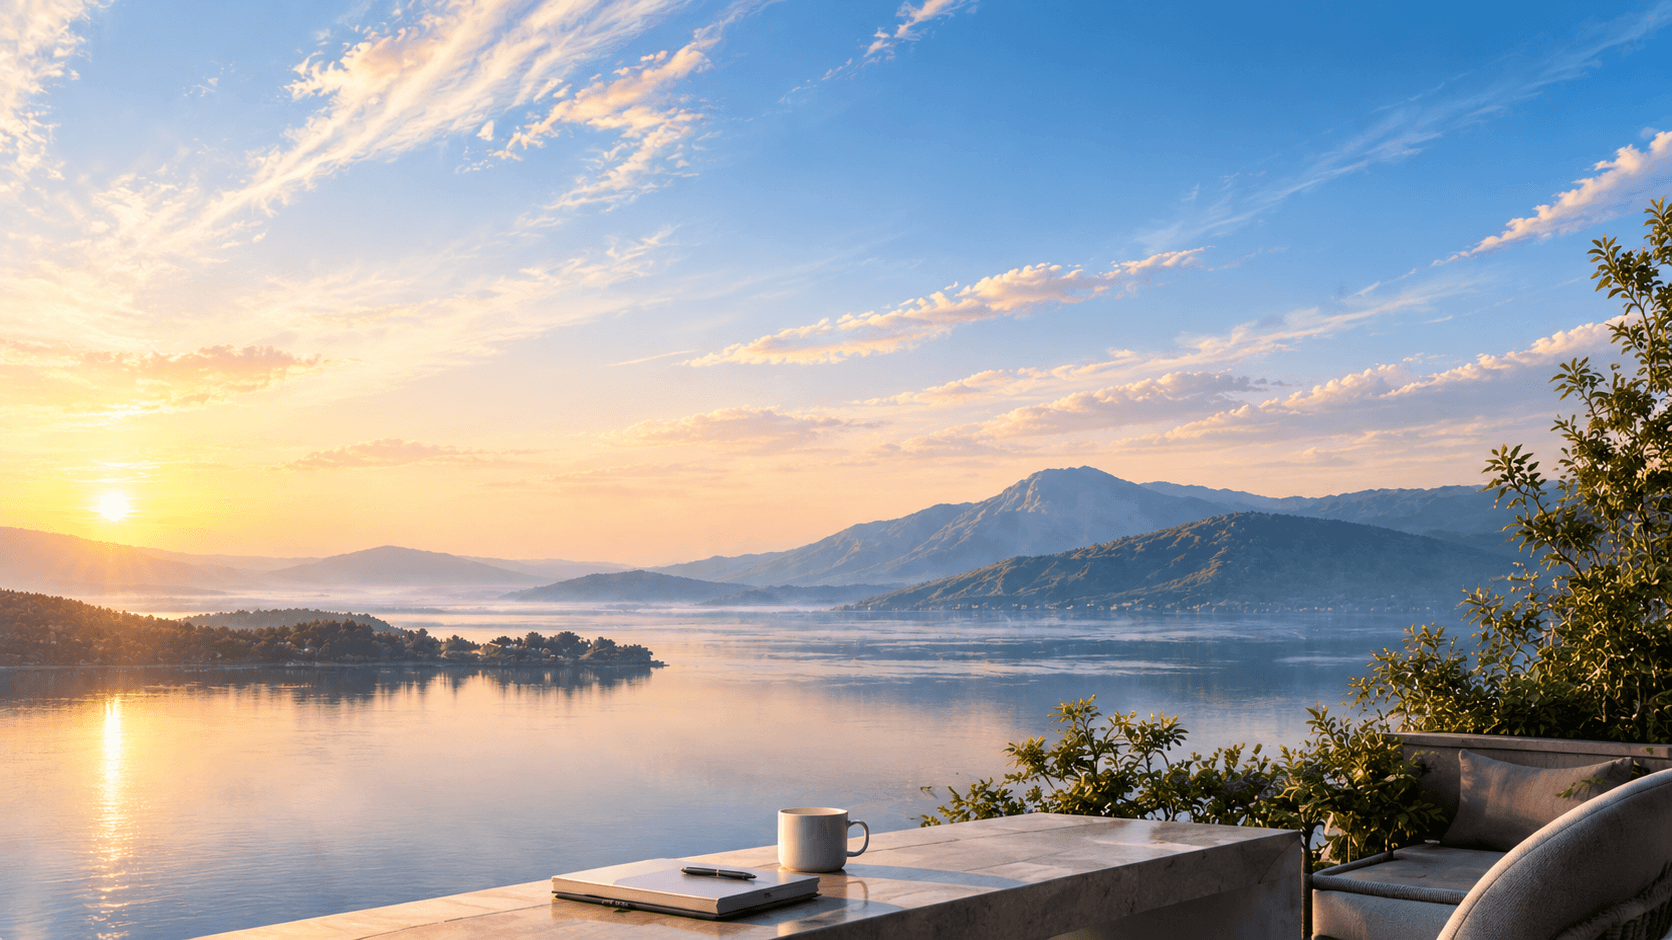
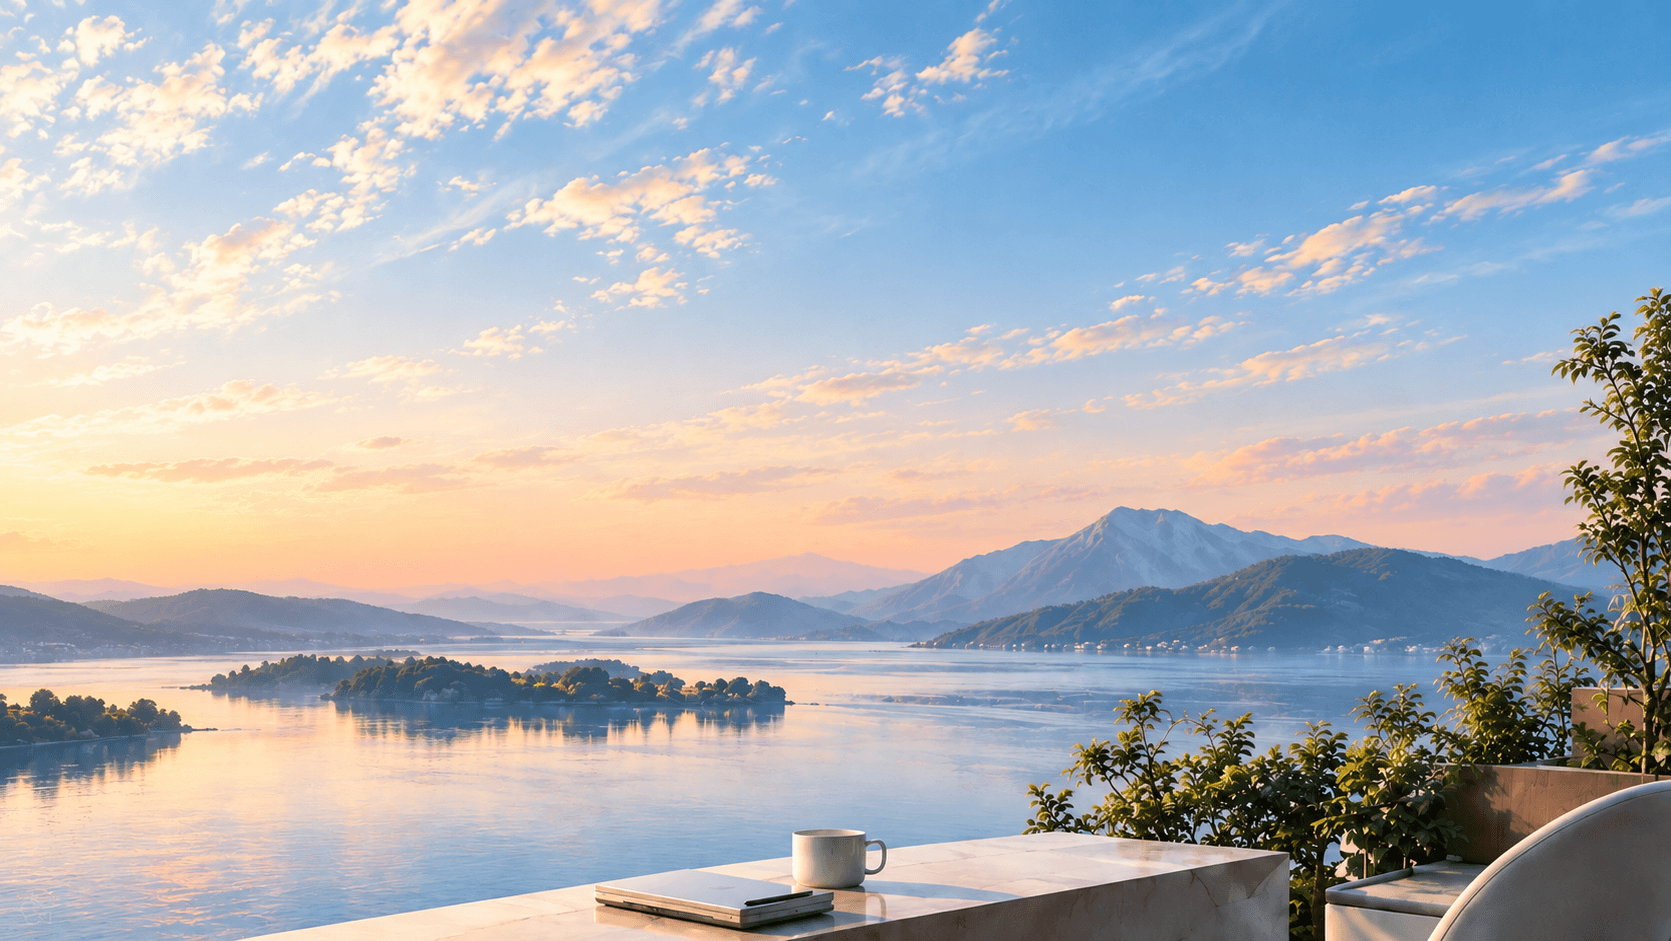
feat(账号区): 头像新增账号菜单入口，支持退出登录二次确认

diff --git a/web/src/components/AccountFooter/index.tsx b/web/src/components/AccountFooter/index.tsx
@@ -1,36 +1,200 @@
 /**
  * @component 底部账号区
- * @description 左栏底部的圆形头像、账号名与脱敏手机号；
- * 两态位置一致不跳动
+ * @description 左栏底部的圆形头像、账号名与脱敏手机号；头像可点击，向上弹出账号菜单
+ * （退出登录），退出与设置页一致走二次确认；两态位置一致不跳动
  * @author gouxinjie
  * @created 2026-09-18
  * @updated 2026-09-23
  */
+import { useEffect, useLayoutEffect, useRef, useState } from 'react';
+import type { KeyboardEvent } from 'react';
+import { createPortal } from 'react-dom';
+import { useNavigate } from 'react-router-dom';
+import ConfirmDialog from '@/components/ConfirmDialog';
 import { useAuth } from '@/contexts/AuthContext';
 import { maskPhone } from '@/utils/format';
+import { navigateWithTransition } from '@/utils/routeTransition';
 import styles from './index.module.scss';
 
 /** 账号名占位：当前用户模型没有昵称字段，统一展示固定称呼 */
 const ACCOUNT_NAME = 'weekly 用户';
+
+/** 菜单与头像之间的间距 */
+const MENU_GAP = 6;
+
+/** 菜单宽度，必须与 index.module.scss 的 .menu 宽度一致，否则贴边时的横向收拢会算错 */
+const MENU_WIDTH = 172;
+
+/** 菜单距视口边缘的最小留白 */
+const VIEWPORT_PADDING = 8;
+
+/** 账号菜单定位结果（fixed 坐标：用 bottom 而非 top，菜单高度变化时始终贴着头像下沿） */
+interface MenuPosition {
+  /** 菜单底边距视口底部的距离 */
+  bottom: number;
+  /** 菜单左边距视口左侧的距离 */
+  left: number;
+}
+
+/**
+ * 计算账号菜单的定位
+ * @param trigger - 头像按钮元素
+ * @returns 定位结果；元素不存在时返回 null
+ * @remarks 菜单向上弹出：账号区固定在页面底部，向下没有空间
+ */
+const computeMenuPosition = (trigger: HTMLElement | null): MenuPosition | null => {
+  if (trigger === null) return null;
+
+  const rect = trigger.getBoundingClientRect();
+  const rightmost = window.innerWidth - MENU_WIDTH - VIEWPORT_PADDING;
+  const left = Math.min(Math.max(rect.left, VIEWPORT_PADDING), Math.max(rightmost, VIEWPORT_PADDING));
+
+  return {
+    bottom: window.innerHeight - rect.top + MENU_GAP,
+    left,
+  };
+};
 
 /**
  * 底部账号区
  * @returns 账号区节点
  */
 const AccountFooter = () => {
-  const { user } = useAuth();
+  const { user, signOut } = useAuth();
+  const navigate = useNavigate();
+
+  const [menuOpen, setMenuOpen] = useState(false);
+  const [confirmOpen, setConfirmOpen] = useState(false);
+  const [pending, setPending] = useState(false);
+  const [position, setPosition] = useState<MenuPosition | null>(null);
+
+  const rootRef = useRef<HTMLDivElement | null>(null);
+  const triggerRef = useRef<HTMLButtonElement | null>(null);
+  const menuRef = useRef<HTMLDivElement | null>(null);
+
+  // 菜单定位：展开时算一次，页面滚动或窗口尺寸变化时跟随更新
+  useLayoutEffect(() => {
+    if (!menuOpen) {
+      setPosition(null);
+      return undefined;
+    }
+
+    const update = (): void => setPosition(computeMenuPosition(triggerRef.current));
+    update();
+
+    window.addEventListener('scroll', update, true);
+    window.addEventListener('resize', update);
+    return () => {
+      window.removeEventListener('scroll', update, true);
+      window.removeEventListener('resize', update);
+    };
+  }, [menuOpen]);
+
+  // 点击菜单与头像之外的区域时收起
+  useEffect(() => {
+    if (!menuOpen) return undefined;
+
+    /**
+     * 处理文档上的鼠标按下
+     * @param event - 鼠标事件
+     * @returns 无
+     */
+    const handlePointerDown = (event: MouseEvent): void => {
+      const target = event.target;
+      if (!(target instanceof Node)) return;
+      if (rootRef.current?.contains(target) === true) return;
+      if (menuRef.current?.contains(target) === true) return;
+      setMenuOpen(false);
+    };
+
+    document.addEventListener('mousedown', handlePointerDown);
+    return () => {
+      document.removeEventListener('mousedown', handlePointerDown);
+    };
+  }, [menuOpen]);
+
+  /*
+   * 菜单展开时把焦点移进第一个菜单项，关闭后交还头像按钮：
+   * 键盘用户展开菜单后按回车即可退出，焦点也不会因为菜单项被卸载而掉到 body 上。
+   */
+  useEffect(() => {
+    if (!menuOpen) return undefined;
+
+    // 头像按钮组件生命周期内不会更换，这里取出节点而不是在清理函数里再读 ref
+    const trigger = triggerRef.current;
+    menuRef.current?.querySelector<HTMLButtonElement>('[role="menuitem"]')?.focus();
+    return () => {
+      trigger?.focus();
+    };
+  }, [menuOpen]);
 
   if (user === null) return null;
 
+  /**
+   * 菜单内的键盘交互
+   * @param event - 键盘事件
+   * @returns 无
+   * @remarks Esc 与 Tab 都只是收起菜单：焦点由上面的清理函数交还头像按钮，
+   *          不把焦点留在已被卸载的菜单项上
+   */
+  const handleMenuKeyDown = (event: KeyboardEvent<HTMLDivElement>): void => {
+    if (event.key === 'Escape' || event.key === 'Tab') {
+      event.preventDefault();
+      setMenuOpen(false);
+    }
+  };
+
+  /**
+   * 打开二次确认弹窗
+   * @returns 无
+   */
+  const openSignOutConfirm = (): void => {
+    setMenuOpen(false);
+    setConfirmOpen(true);
+  };
+
+  /**
+   * 确认后退出当前设备并回到登录页
+   * @returns 无
+   * @remarks 登出接口失败时 AuthContext 已清除本地登录态，路由守卫会重定向到登录页，
+   *          因此不在此处重试，只把失败事实带过去提示，避免用户误以为已安全退出
+   */
+  const submitSignOut = async (): Promise<void> => {
+    setPending(true);
+    let notice = '';
+    try {
+      await signOut();
+    } catch {
+      notice = '已退出当前设备，但未能通知服务端，建议稍后重新登录确认';
+    } finally {
+      setPending(false);
+      setConfirmOpen(false);
+      navigateWithTransition(
+        navigate,
+        '/login',
+        notice === '' ? { replace: true } : { replace: true, state: { message: notice } },
+      );
+    }
+  };
+
   return (
-    <div className={styles.footer}>
+    <div className={styles.footer} ref={rootRef}>
       <div className={styles.account}>
-        {/* 头像：浅色圆底 + 用户剪影 */}
-        <span className={styles.avatar} aria-hidden>
-          <svg viewBox="0 0 24 24" fill="currentColor">
+        {/* 头像即账号菜单入口：点击向上弹出菜单，两态位置不变 */}
+        <button
+          ref={triggerRef}
+          type="button"
+          className={menuOpen ? styles.avatarOpen : styles.avatar}
+          aria-haspopup="menu"
+          aria-expanded={menuOpen}
+          aria-label="账号菜单"
+          title="账号菜单"
+          onClick={() => setMenuOpen((prev) => !prev)}
+        >
+          <svg viewBox="0 0 24 24" fill="currentColor" aria-hidden focusable="false">
             <path d="M12 12.2a4.1 4.1 0 1 0 0-8.2 4.1 4.1 0 0 0 0 8.2Zm0 1.9c-3.6 0-7 1.9-7 4.4 0 .9.7 1.5 1.6 1.5h10.8c.9 0 1.6-.6 1.6-1.5 0-2.5-3.4-4.4-7-4.4Z" />
           </svg>
-        </span>
+        </button>
 
         <span className={styles.texts}>
           <span className={styles.name}>{ACCOUNT_NAME}</span>
@@ -39,6 +203,48 @@ const AccountFooter = () => {
           </span>
         </span>
       </div>
+
+      {/* 菜单 portal 到 body：账号区在左栏底部，留在原地会被骨架的 overflow 裁剪 */}
+      {menuOpen && position !== null
+        ? createPortal(
+            <div
+              ref={menuRef}
+              role="menu"
+              aria-label="账号菜单"
+              className={styles.menu}
+              style={{ bottom: position.bottom, left: position.left }}
+              onKeyDown={handleMenuKeyDown}
+            >
+              <button
+                type="button"
+                role="menuitem"
+                className={styles.menuItem}
+                onClick={openSignOutConfirm}
+              >
+                <span className={styles.menuIcon} aria-hidden>
+                  <svg viewBox="0 0 24 24" fill="none" stroke="currentColor" strokeWidth="1.7">
+                    <path d="M15 5.5H7.5A2.5 2.5 0 0 0 5 8v8a2.5 2.5 0 0 0 2.5 2.5H15" strokeLinecap="round" />
+                    <path d="M14 8.2 17.8 12 14 15.8M10.5 12h7.3" strokeLinecap="round" strokeLinejoin="round" />
+                  </svg>
+                </span>
+                退出登录
+              </button>
+            </div>,
+            document.body,
+          )
+        : null}
+
+      {/* 退出与设置页同一套二次确认文案，避免两处语气不一致 */}
+      <ConfirmDialog
+        open={confirmOpen}
+        title="退出登录？"
+        description="将清除当前设备的登录状态，下次访问需要重新登录。"
+        confirmText="退出登录"
+        tone="danger"
+        pending={pending}
+        onConfirm={() => void submitSignOut()}
+        onCancel={() => setConfirmOpen(false)}
+      />
     </div>
   );
 };

diff --git a/web/src/components/AccountFooter/index.module.scss b/web/src/components/AccountFooter/index.module.scss
@@ -1,7 +1,8 @@
 /**
  * 底部账号区样式
  * 说明：固定在左栏底部，圆形头像 + 账号名 / 脱敏手机号两行，
- * 两态共用，位置不因切换标签页而跳动。
+ * 两态共用，位置不因切换标签页而跳动；
+ * 头像同时是账号菜单入口，菜单向上弹出（portal 到 body 后按 fixed 定位）。
  */
 
 .footer {
@@ -25,20 +26,42 @@
 }
 
 /* 圆形头像：主色浅底 + 主色剪影，比灰色底更有品牌感，三套主题下都不发灰。
-   32px 比原先的 40px 更贴合 200px 的栏宽，也给右侧两行文字留出更多空间 */
-.avatar {
+   32px 比原先的 40px 更贴合 200px 的栏宽，也给右侧两行文字留出更多空间。
+   它同时是账号菜单的入口按钮，因此先抹掉浏览器默认的按钮边框与内边距 */
+.avatar,
+.avatarOpen {
   display: flex;
   align-items: center;
   justify-content: center;
   flex: 0 0 auto;
   width: 32px;
   height: 32px;
+  padding: 0;
+  border: none;
   border-radius: 50%;
   background-color: var(--color-accent-soft);
   color: var(--color-accent);
+  transition:
+    background-color 0.15s ease,
+    color 0.15s ease,
+    box-shadow 0.15s ease;
 }
 
-.avatar svg {
+/* 悬停：浅底换主色实底，与选中页签同一套「主色实底 + 反白」语言 */
+.avatar:hover {
+  background-color: var(--color-accent);
+  color: var(--color-on-accent);
+}
+
+/* 菜单展开态：常驻实底，外加一圈浅主色光晕把入口与浮层关联起来 */
+.avatarOpen {
+  background-color: var(--color-accent);
+  color: var(--color-on-accent);
+  box-shadow: 0 0 0 3px var(--color-accent-soft);
+}
+
+.avatar svg,
+.avatarOpen svg {
   /* 图标随头像等比放大（32 × 0.56 ≈ 18） */
   width: 18px;
   height: 18px;
@@ -69,4 +92,52 @@
   white-space: nowrap;
   overflow: hidden;
   text-overflow: ellipsis;
+}
+
+/* ===== 账号菜单（portal 到 body，fixed 定位，向上弹出） ===== */
+
+/* 宽度必须与 index.tsx 的 MENU_WIDTH 一致，否则贴边时的横向收拢会算错 */
+.menu {
+  position: fixed;
+  z-index: var(--z-pop);
+  width: 172px;
+  padding: var(--space-1);
+  border: 1px solid var(--color-border);
+  border-radius: var(--radius-md);
+  background-color: var(--color-bg);
+  box-shadow: var(--shadow-pop);
+}
+
+.menuItem {
+  display: flex;
+  align-items: center;
+  gap: var(--space-2);
+  width: 100%;
+  padding: 6px var(--space-2);
+  border: none;
+  border-radius: var(--radius-sm);
+  background-color: transparent;
+  /* 退出是危险操作，文字直接取危险色，与二次确认弹窗的语气一致 */
+  color: var(--color-danger);
+  font-size: 13px;
+  line-height: 1.5;
+  text-align: left;
+  white-space: nowrap;
+}
+
+.menuItem:hover {
+  background-color: var(--color-bg-active);
+}
+
+.menuIcon {
+  display: flex;
+  flex: 0 0 auto;
+  width: 16px;
+  height: 16px;
+}
+
+.menuIcon svg {
+  display: block;
+  width: 100%;
+  height: 100%;
 }
